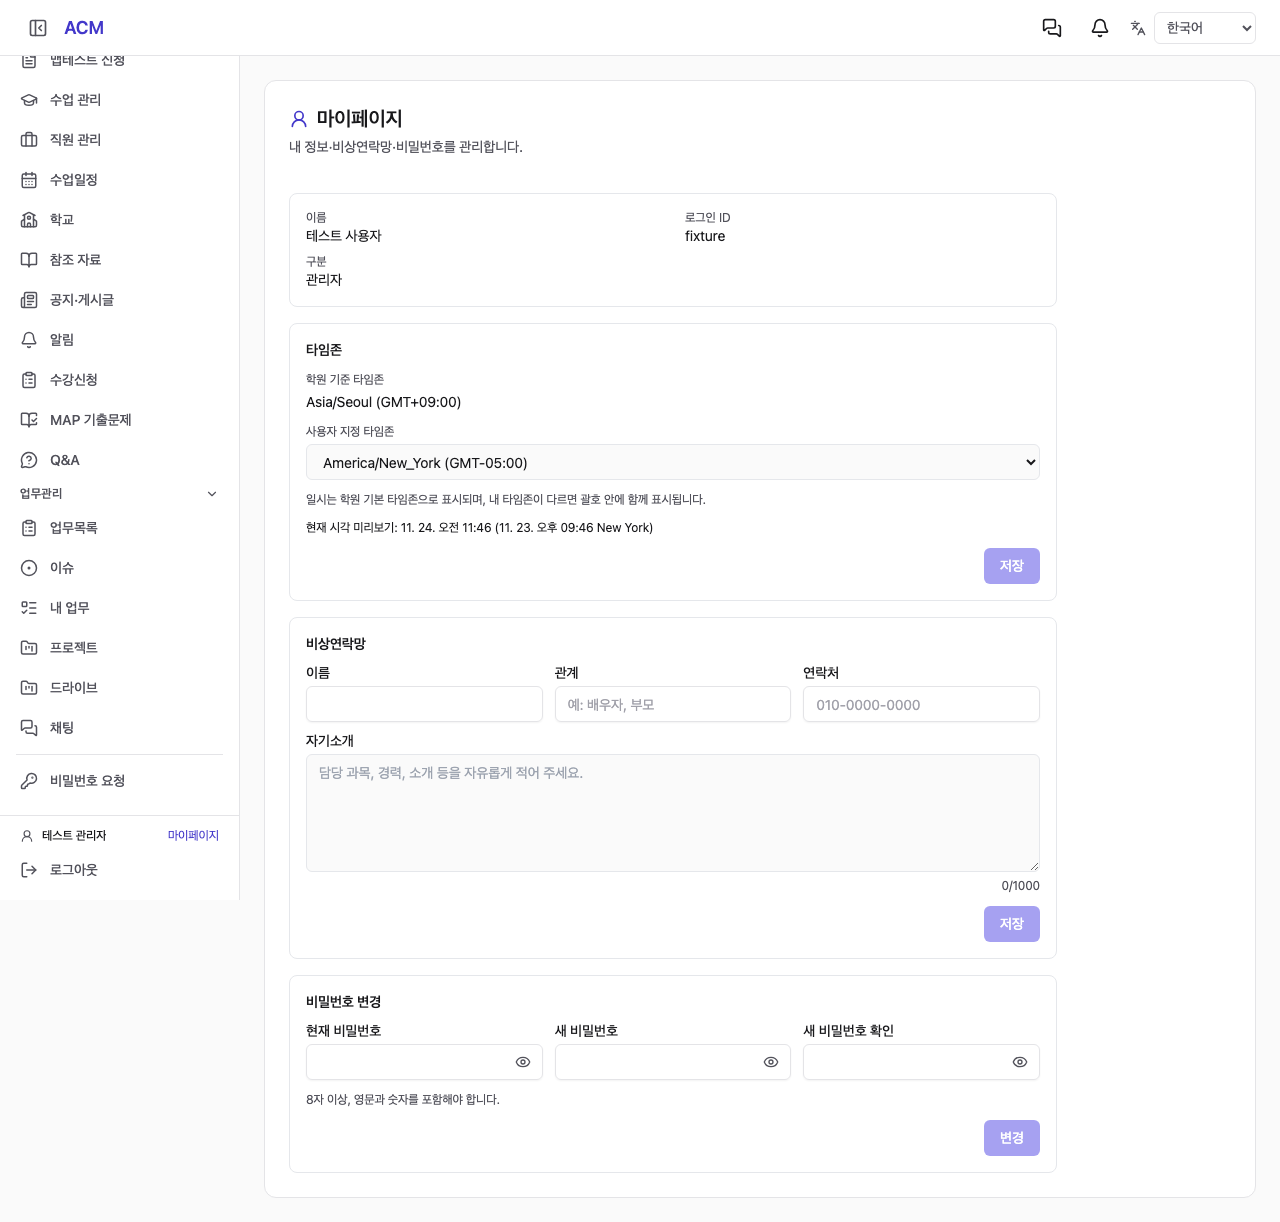
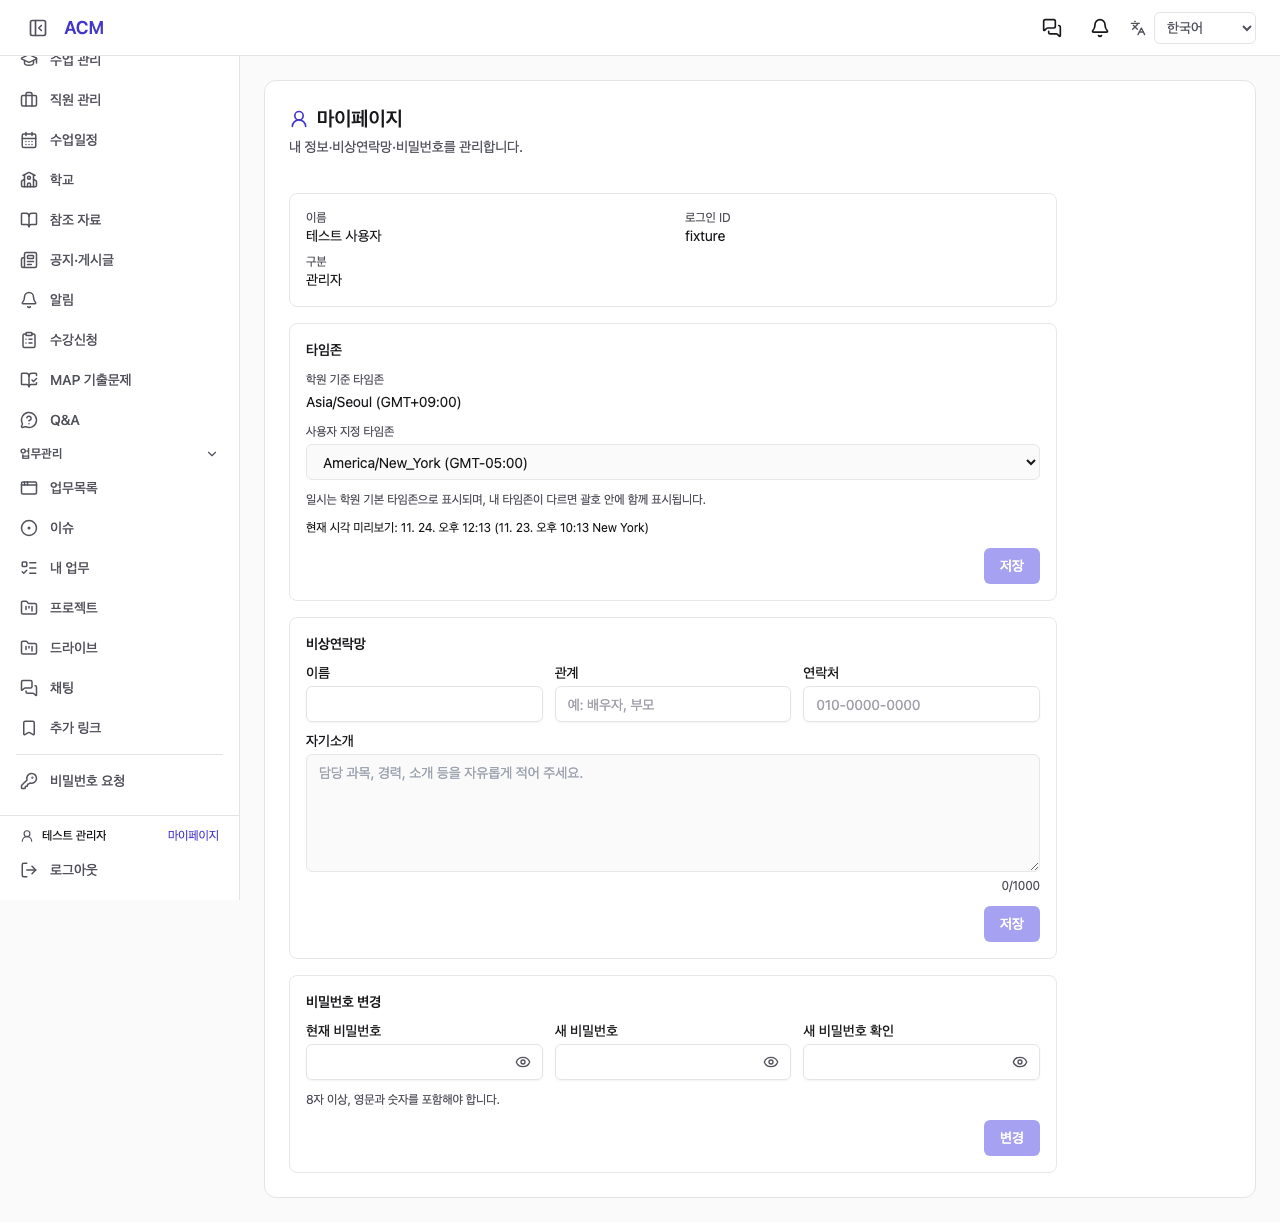
fix(navigation): use configured work list link instead of documents

diff --git a/frontend-acm/src/components/layout/app-shell.tsx b/frontend-acm/src/components/layout/app-shell.tsx
@@ -91,8 +91,7 @@ const NAV = [
   { to: "/admin/enrollments", icon: ClipboardList, key: "enrollments", group: "academy" },
   { to: "/admin/map", icon: BookOpenCheck, key: "map", group: "academy" },
   { to: "/admin/qna", icon: MessageCircleQuestion, key: "qna", group: "academy" },
-  // REQ-261124 — 업무관리 고정 순서. 기존 documents 화면은 업무목록으로 표시.
-  { to: "/admin/documents", icon: ClipboardList, key: "documents", group: "work" },
+  // REQ-261124 — 업무목록은 기존 사용자 링크를 맨 위에 표시. 문서 메뉴는 사용하지 않음.
   { to: "/admin/issues", icon: CircleDot, key: "issues", group: "work" },
   { to: "/admin/my-work", icon: ListTodo, key: "myWork", group: "work" },
   { to: "/admin/projects", icon: FolderKanban, key: "projects", group: "work" },
@@ -216,7 +215,7 @@ export function AppShell() {
       }
       return next;
     });
-  // REQ-261026B — 사용자 메뉴는 위치에 따라 업무관리 그룹 끝 또는 북마크 그룹에 붙는다.
+  // 업무목록 링크는 업무관리 맨 위, 나머지 사용자 메뉴는 기존 그룹·순서 유지.
   const customMenus = menus?.custom ?? [];
   const customHref = (c: (typeof customMenus)[number]) =>
     c.openMode === "EMBED" ? `/admin/embed/${c.id}` : c.url;
@@ -387,6 +386,10 @@ export function AppShell() {
                 : group === "bookmarks" && c.group === "BOOKMARKS",
             );
             if (!items.length && !bookmarks.length) return null;
+            const workLists = group === "work"
+              ? bookmarks.filter((c) => c.name.replace(/\s/g, "") === "업무목록")
+              : [];
+            const trailingBookmarks = bookmarks.filter((c) => !workLists.includes(c));
             const collapsed =
               !iconOnly &&
               group !== "settings" &&
@@ -407,6 +410,14 @@ export function AppShell() {
                     {collapsed ? <ChevronRight size={14} /> : <ChevronDown size={14} />}
                   </button>
                 )}
+                {!collapsed && workLists.map((b) => (
+                  <BookmarkLink
+                    key={b.id}
+                    item={{ ...b, url: customHref(b) }}
+                    iconOnly={iconOnly}
+                    active={location.pathname + location.search === customHref(b)}
+                  />
+                ))}
                 {!collapsed &&
           items.map(({ to, icon: Icon, key }) =>
             key === "std" ? (
@@ -452,7 +463,7 @@ export function AppShell() {
             ),
           )}
                 {!collapsed &&
-                  bookmarks.map((b) => (
+                  trailingBookmarks.map((b) => (
                     <BookmarkLink
                       key={b.id}
                       item={{ ...b, url: customHref(b) }}

diff --git a/backend/src/modules/acm-system/application/admin-menu-keys.ts b/backend/src/modules/acm-system/application/admin-menu-keys.ts
@@ -29,12 +29,12 @@ export const TOGGLEABLE_MENU_KEYS = [
   'map',
   'qna',
   // REQ-261124 — 업무목록 → 이슈 → 내 업무 → 프로젝트 → 드라이브 → 채팅
-  'documents',
   'issues',
   'myWork',
   'projects',
   'drive',
   'chat',
+  'documents', // Legacy settings compatibility; not displayed in the sidebar.
   'config',
 ] as const;
 

diff --git a/frontend-acm/src/lib/admin-menu-keys.ts b/frontend-acm/src/lib/admin-menu-keys.ts
@@ -26,12 +26,12 @@ export const TOGGLEABLE_MENU_KEYS = [
   'map',
   'qna',
   // REQ-261124 — 업무목록 → 이슈 → 내 업무 → 프로젝트 → 드라이브 → 채팅
-  'documents',
   'issues',
   'myWork',
   'projects',
   'drive',
   'chat',
+  'documents', // Legacy settings compatibility; not displayed in the sidebar.
   'config',
 ] as const;
 

diff --git a/frontend-acm/test/portal-visibility.smoke.py b/frontend-acm/test/portal-visibility.smoke.py
@@ -13,12 +13,14 @@ from playwright.sync_api import expect, sync_playwright
 BASE = os.environ.get('ACM_TEST_URL', 'http://127.0.0.1:3009')
 ARTIFACTS = Path(os.environ.get('ACM_TEST_ARTIFACTS', '/private/tmp/acm-portal-261124-shots'))
 ARTIFACTS.mkdir(parents=True, exist_ok=True)
-WORK_PATHS = ['/admin/documents', '/admin/issues', '/admin/my-work',
+WORK_LIST_URL = 'https://work.example.test/list'
+WORK_PATHS = ['/admin/embed/work-list', '/admin/issues', '/admin/my-work',
               '/admin/projects', '/admin/drive', '/admin/chat']
 WORK_LABELS = ['업무목록', '이슈', '내 업무', '프로젝트', '드라이브', '채팅']
 
 
-def run(browser, role, mobile=False, hidden=None, fail_calendar=False):
+def run(browser, role, mobile=False, hidden=None, fail_calendar=False,
+        work_list_mode='EMBED', include_work_list=True):
     context = browser.new_context(viewport={'width': 390 if mobile else 1280, 'height': 900})
     state = {
         'token': 'fixture-admin-token', 'active': 'admin' if role == 'ADMIN' else 'portal',
@@ -29,8 +31,8 @@ def run(browser, role, mobile=False, hidden=None, fail_calendar=False):
             'refId': 'teacher-a', 'loginId': 'fixture', 'mustChangePassword': False}},
         'parent': {'token': None, 'user': None},
     }
-    context.add_init_script("localStorage.setItem('acm.lang','ko');localStorage.setItem('acm-auth'," +
-                            json.dumps(json.dumps({'version': 4, 'state': state})) + ");")
+    context.add_init_script("if (location.origin === " + json.dumps(BASE) + ") { localStorage.setItem('acm.lang','ko');localStorage.setItem('acm-auth'," +
+                            json.dumps(json.dumps({'version': 4, 'state': state})) + "); }")
     page = context.new_page()
     page.set_default_timeout(15000)
     errors, requests = [], []
@@ -66,7 +68,12 @@ def run(browser, role, mobile=False, hidden=None, fail_calendar=False):
             data = {'id': 'withdrawn', 'name': '퇴원 테스트', 'status': 'WITHDRAWN',
                     'remarks': [], 'recentEvents': [], 'links': [], 'linksEditable': False}
         elif path == '/acm/me/menus':
-            data = {'hidden': hidden or [], 'order': ['chat', 'drive', 'projects', 'myWork', 'issues', 'documents'], 'custom': []}
+            custom = [{'id': 'other-work', 'name': '추가 링크', 'url': '/admin/extra',
+                       'group': 'WORK', 'openMode': 'LINK', 'newTab': False}]
+            if include_work_list:
+                custom.append({'id': 'work-list', 'name': '업무목록', 'url': WORK_LIST_URL,
+                               'group': 'WORK', 'openMode': work_list_mode, 'newTab': True})
+            data = {'hidden': hidden or [], 'order': ['chat', 'drive', 'projects', 'myWork', 'issues', 'documents'], 'custom': custom}
         elif path == '/acm/me/config-access':
             data = {'canManageConfig': False, 'canManageTenant': False, 'canViewAudit': False}
         elif 'video-capabilities' in path:
@@ -154,6 +161,7 @@ with sync_playwright() as pw:
             actual = [href for href in links.evaluate_all('(els) => els.map(e => e.getAttribute("href"))') if href in WORK_PATHS]
             wanted = [p for p in WORK_PATHS if p != '/admin/drive' or 'drive' not in hidden]
             assert actual == wanted, (actual, wanted)
+            expect(page.locator('aside nav a[href="/admin/documents"]')).to_have_count(0)
             page.locator('aside nav a[href="/admin/chat"]').scroll_into_view_if_needed()
             for path, label in zip(WORK_PATHS, WORK_LABELS):
                 if path in wanted:
@@ -162,8 +170,29 @@ with sync_playwright() as pw:
             expect(page.get_by_text('사용자 지정 타임존', exact=True)).to_be_visible()
             shot = 'admin-mobile.png' if mobile else 'admin-hidden.png' if hidden else 'admin-desktop.png'
             page.screenshot(path=str(ARTIFACTS / shot), full_page=True)
+            page.locator('aside nav a[href="/admin/embed/work-list"]').click()
+            expect(page).to_have_url(BASE + '/admin/embed/work-list')
+            expect(page.locator('iframe')).to_have_attribute('src', WORK_LIST_URL)
             assert not errors, errors
             context.close()
             print('PASS admin menu order/visibility:', mobile, hidden)
+
+        for included in [True, False]:
+            context, page, errors, _, _ = run(browser, 'ADMIN', work_list_mode='LINK', include_work_list=included)
+            page.goto(BASE + '/admin/me')
+            page.wait_for_load_state('networkidle')
+            expect(page.locator('aside nav a[href="/admin/documents"]')).to_have_count(0)
+            work_list = page.locator('aside nav a[href="' + WORK_LIST_URL + '"]')
+            if included:
+                expect(work_list).to_have_attribute('target', '_blank')
+                work_order = page.locator('aside nav a').evaluate_all(
+                    '(els) => els.map(e => e.getAttribute("href")).filter(h => h === "https://work.example.test/list" || ["/admin/issues", "/admin/my-work", "/admin/projects", "/admin/drive", "/admin/chat", "/admin/extra"].includes(h))')
+                assert work_order == [WORK_LIST_URL] + WORK_PATHS[1:] + ['/admin/extra'], work_order
+            else:
+                expect(work_list).to_have_count(0)
+                expect(page.locator('aside nav a[href="/admin/embed/work-list"]')).to_have_count(0)
+            assert not errors, errors
+            context.close()
+            print('PASS configured link/role-filtered absence:', included)
     finally:
         browser.close()

diff --git a/docs/report/RPT-261124-portal-visibility.md b/docs/report/RPT-261124-portal-visibility.md
@@ -1,8 +1,11 @@
 ---
-document_id: ACM-PORTAL-VISIBILITY-RPT-1.0.0
-version: 1.0.0
+document_id: ACM-PORTAL-VISIBILITY-RPT-1.1.0
+version: 1.1.0
 status: implemented_locally_not_deployed
 change_log:
+  - version: 1.1.0
+    date: 2026-11-24
+    description: Correct work list to the existing custom link, preserving configured URL and open mode.
   - version: 1.0.0
     date: 2026-11-24
     description: Record portal visibility, withdrawn student filtering, work navigation, and local verification.
@@ -22,7 +25,7 @@ Implemented the approved [plan](../plan/PLN-261124-teacher-portal-calendar.md) o
 | Withdrawn students | 기본 목록/API 조회에서 WITHDRAWN 제외. 전체보기에서만 포함. INACTIVE는 유지. 전체보기에서도 본인 관련 학생 범위 유지 |
 | Work navigation | 업무목록 → 이슈 → 내 업무 → 프로젝트 → 드라이브 → 채팅. 저장된 이전 순서에도 적용. 다른 그룹 순서·사용자 메뉴·개별 숨김 조건 유지 |
 
-**Menu interpretation (메뉴 대응):** The current source has a `documents` menu but no separate built-in work-list menu. 기존 `/admin/documents` 메뉴를 업무목록으로 표시해 맨 위로 이동했다. 문서 기능·URL은 유지한다. 사용자가 “기존 ‘문서’ 메뉴”라고 답변하여 해당 메뉴 대응을 확인했다.
+**Work-list link (업무목록 링크):** The latest user correction replaces the earlier document-menu mapping. 업무목록은 [기존 설계](../analysis/REQ-261026B-custom-menu-embed.md)의 사용자 링크다. 저장된 URL·EMBED/LINK·새 탭 설정을 그대로 사용해 업무 관리 맨 위에 배치하고 기존 문서 메뉴는 사이드바에서 제외했다. 사용자·테넌트에 허용된 링크만 표시하며 URL을 공용 코드에 하드코딩하지 않는다.
 
 ## 2. Implementation (구현 내용)
 
@@ -31,7 +34,7 @@ Implemented the approved [plan](../plan/PLN-261124-teacher-portal-calendar.md) o
 - `MyProfilePage` hides custom timezone editing for teacher/student portal sessions. 학부모·운영 콘솔의 타임존 설정은 기존대로 동작한다.
 - `GET /api/portal/teacher/students?includeWithdrawn=true` includes related withdrawn students; default/false excludes them. NestJS validates the boolean flag. 필터는 파라미터 SQL로 적용하고 로그인 사용자의 tenant/teacher 범위를 그대로 사용한다.
 - Detail authorization explicitly includes withdrawn students within the existing relationship scope, independent of the default display filter. 목록 캐시 키에는 테넌트·강사·전체보기 조건을 포함한다.
-- Frontend/backend canonical menu defaults are aligned. `AppShell` normalizes only the six built-in work entries, preventing old saved order from overriding the request.
+- Frontend/backend canonical menu defaults are aligned. `AppShell` normalizes only the five built-in work entries after the authorized work-list custom link, preventing old saved order from overriding the request.
 - Korean, English, Vietnamese, and Simplified Chinese labels are included.
 
 ## 3. Verification (검증)
@@ -41,12 +44,12 @@ Implemented the approved [plan](../plan/PLN-261124-teacher-portal-calendar.md) o
 | Frontend `npm run build` | PASS — TypeScript + Vite production build |
 | Backend `npm run build` | PASS — NestJS build |
 | Backend `npm test -- --runInBand portal-teacher-students` | PASS — 2 suites, 14 tests |
-| Python Playwright smoke | PASS — 7 scenario groups, synthetic API fixtures |
+| Python Playwright smoke | PASS — 9 scenario groups, synthetic API fixtures |
 | Locale keys / `git diff --check` | PASS |
 
 Backend tests cover boolean default/true/false, invalid query values, student/parent rejection, authenticated tenant/teacher arguments, default SQL status filtering, and related withdrawn-student detail access. DB 연결 없이 실행한 단위·HTTP 계약 테스트이며 실제 데이터베이스에서 SQL 실행은 검증하지 않았다.
 
-Browser checks cover teacher calendar menu/direct URL/trailing slash/refresh and month/week/day/list, student/parent redirect without calendar requests, teacher/student timezone hiding, unchanged parent/console timezone editing, error/retry, ACTIVE/INACTIVE default visibility, WITHDRAWN all-view/detail, default reset after returning, and desktop/mobile order with old saved order and hidden drive.
+Browser checks cover teacher calendar menu/direct URL/trailing slash/refresh and month/week/day/list, student/parent redirect without calendar requests, teacher/student timezone hiding, unchanged parent/console timezone editing, error/retry, ACTIVE/INACTIVE default visibility, WITHDRAWN all-view/detail, default reset after returning, and desktop/mobile order with old saved order and hidden drive. Additional checks cover document-menu absence, configured embedded iframe URL, external new-tab link behavior, no synthesized link when the server omits it, and other custom links retaining their trailing position.
 
 All API responses in browser tests are synthetic; no production credentials or student information were used. ブラウザ検証は合成データで実施した。Viteには既存の大きいチャンク警告があるがビルドは成功した。運用サイトは接続不可のためログイン検証していない。
 

diff --git a/docs/plan/PLN-261124-teacher-portal-calendar.md b/docs/plan/PLN-261124-teacher-portal-calendar.md
@@ -1,8 +1,11 @@
 ---
-document_id: ACM-TEACHER-CALENDAR-PLN-1.1.0
-version: 1.1.0
+document_id: ACM-TEACHER-CALENDAR-PLN-1.2.0
+version: 1.2.0
 status: implemented_locally
 change_log:
+  - version: 1.2.0
+    date: 2026-11-24
+    description: Correct work list to the existing custom link and remove the document sidebar entry.
   - version: 1.1.0
     date: 2026-11-24
     description: Expand UI layout and verification to all four portal and navigation requirements.
@@ -92,8 +95,8 @@ Implementation and local verification are complete in the isolated worktree; pro
 ## 6. Implementation Decisions (구현 결정)
 
 - Latest main contains `/portal/me` and the six-item work section. 최초 작업 폴더의 이전 브랜치와 달리 최신 소스에서 적용 위치를 확인했다.
-- Existing `documents` menu is displayed as 업무목록 and placed first; its `/admin/documents` route and document behavior remain intact. 사용자가 “기존 ‘문서’ 메뉴”라고 답변하여 이 대응을 확인했다.
-- Existing saved tenant order is normalized only for the six built-in work entries. 메뉴별 숨김 조건, 다른 그룹 순서와 사용자 메뉴는 유지한다.
+- The latest user correction supersedes the earlier document-menu mapping. 업무목록은 REQ-261026B의 기존 사용자 링크이며 저장된 URL·열기 방식을 유지해 업무관리 맨 위에 표시한다. 기존 문서 메뉴는 사이드바에서 제외한다.
+- Existing saved tenant order is normalized for the five built-in work entries, with the authorized work-list custom link pinned first. 메뉴별 숨김·역할 조건과 다른 그룹 순서는 유지한다. 업무목록 외 사용자 메뉴는 기존 위치를 유지한다.
 - Custom timezone UI is hidden only for teacher/student portal sessions. 학원 기준 시간대는 계속 표시하고 학부모·콘솔 설정 및 저장된 시간값은 유지한다.
 
 Implementation and verification (구현·검증): [RPT-261124](../report/RPT-261124-portal-visibility.md).

diff --git a/docs/bug-fix/FIX-261124-work-list-custom-link.md b/docs/bug-fix/FIX-261124-work-list-custom-link.md
@@ -1,0 +1,28 @@
+---
+document_id: ACM-WORK-LIST-FIX-1.0.0
+version: 1.0.0
+status: fixed_locally_not_deployed
+change_log:
+  - version: 1.0.0
+    date: 2026-11-24
+    description: Restore the configured work-list link and remove the document sidebar entry.
+---
+
+# Work List Link Correction (업무목록 링크 수정)
+
+## 1. Cause (원인)
+
+The prior implementation mapped 업무목록 to the built-in document route. 사용자의 최신 정정에 따르면 업무목록은 기존 사용자 링크이며 문서 메뉴를 사용하지 않는다. 이전의 문서 메뉴 대응 확인은 이번 정정으로 대체된다.
+
+## 2. Fix (수정)
+
+- Remove `/admin/documents` from sidebar navigation; retain its legacy menu key for saved-settings compatibility.
+- Place the authorized WORK custom menu named 업무목록 (ignoring whitespace) before 이슈 → 내 업무 → 프로젝트 → 드라이브 → 채팅.
+- Preserve the configured URL, EMBED/LINK mode, and new-tab setting through the existing `BookmarkLink` component. 기존 링크 설정을 재사용하고 테넌트 URL을 하드코딩하지 않는다.
+- Never synthesize a work-list link when it is omitted by the role-filtered menu API. 다른 사용자 링크와 북마크는 기존 그룹·위치를 유지한다.
+
+## 3. Verification (검증)
+
+Frontend/backend builds passed. Python Playwright passed 9 scenario groups, including the prior portal checks, desktop/mobile order, old saved order, hidden drive, embedded target URL, external new-tab attributes, document-menu absence, and missing-link behavior. Tests use synthetic API responses; actual external sheet contents and production login were not verified.
+
+빌드와 합성 데이터 브라우저 검증을 완료했다. 운영 배포는 하지 않았다. 상세 결과·캡처: [구현 보고서](../report/RPT-261124-portal-visibility.md).

diff --git a/docs/analysis/REQ-261124-teacher-portal-calendar.md b/docs/analysis/REQ-261124-teacher-portal-calendar.md
@@ -1,8 +1,11 @@
 ---
-document_id: ACM-TEACHER-CALENDAR-REQ-1.1.0
-version: 1.1.0
+document_id: ACM-TEACHER-CALENDAR-REQ-1.2.0
+version: 1.2.0
 status: implemented_locally
 change_log:
+  - version: 1.2.0
+    date: 2026-11-24
+    description: Correct work list to the existing custom link and remove the document sidebar entry.
   - version: 1.1.0
     date: 2026-11-24
     description: Add teacher-only calendar, hidden custom timezone, withdrawn student filter, and work navigation order.
@@ -68,3 +71,7 @@ Teachers must be able to see the calendar at `https://acm.amoeba.site/portal/cal
 2026-11-24 fetched `origin/main` at `bc2803c`; implementation branch: `feat/portal-visibility-261124`. 최신 main에는 내 정보 타임존 UI와 업무 관리 여섯 메뉴가 있다. 캘린더 메뉴는 이전 요구로 모든 역할에서 숨겨진 상태여서 강사에게만 복원한다. 위 초기 확인 결과는 원래 작업 폴더의 이전 브랜치 기준이다. 운영 URL은 네트워크/브라우저 연결 문제로 직접 검증하지 못했다.
 
 Implementation and verification (구현·검증): [RPT-261124](../report/RPT-261124-portal-visibility.md).
+
+## 8. Work List Correction (업무목록 정정)
+
+The user clarified “업무목록은 링크임 기존 문서 사용안함. 수정”. 이 지시가 이전 문서 메뉴 대응 확인을 대체한다. [기존 업무목록 설계](REQ-261026B-custom-menu-embed.md)에 따라 `/acm/me/menus`가 반환하는 WORK 그룹의 업무목록 사용자 링크를 맨 위에 표시한다. URL·EMBED/LINK·새 탭 설정을 유지하며, 권한으로 반환되지 않은 항목을 새로 만들거나 하드코딩하지 않는다. 기존 문서 메뉴는 사이드바에서 제외한다.
